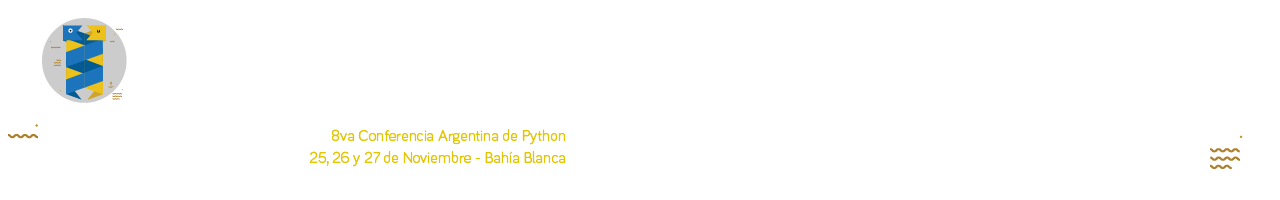
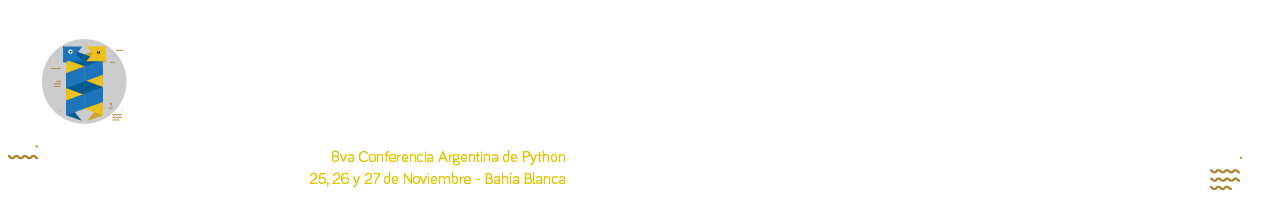
Translations and header lower down

diff --git a/pinaxcon/templates/_account_bar.html b/pinaxcon/templates/_account_bar.html
@@ -7,8 +7,9 @@
         <!-- span class="navbar-text">
             <i class="fa fa-user"></i> {% user_display request.user %}
         </span -->
+            
         <li>
-            <a href="{% url "dashboard" %}" title="{% trans "Dashboard" %}"><i class="fa fa-tasks"></i> <span class="hidden-lg"> {% trans "Dashboard" %}</span></a>
+            <a href="{% url "dashboard" %}" title="{% trans "Dashboard" %}">{{ request.user.username }} <i class="fa fa-tasks"></i></span></a>
         </li>
         <li>
             <a href="{% url 'account_settings' %}" title="{% trans "Settings" %}"><i class="fa fa-cog"></i> <span class="hidden-lg"> {% trans "Settings" %}</span></a>

diff --git a/pinaxcon/templates/site_base.html b/pinaxcon/templates/site_base.html
@@ -43,8 +43,8 @@
 
     {% if request.path == '/' %}
       {% include "_header.html" %}
-    {% endif %}
 
+    {% endif %}
     {% include "_messages.html" %}
 {% endblock %}
 

diff --git a/pinaxcon/templates/_header.html b/pinaxcon/templates/_header.html
@@ -1,6 +1,6 @@
 <header>
   <div class="container">
-
+    <br>
     <div class="center">
       <h1>
         <img src="/site_media/static/images/logo.png">
